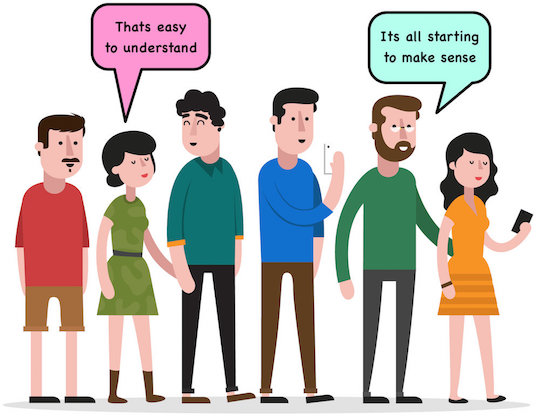
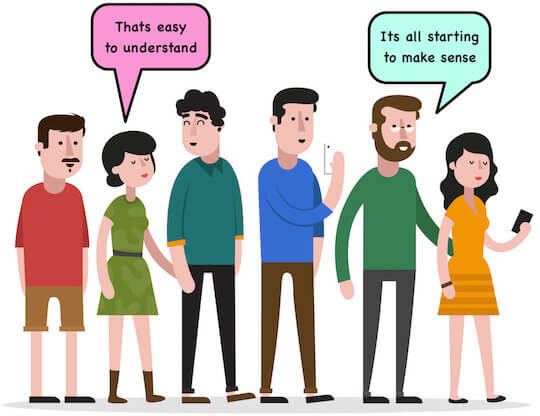
Assets optimized
removing images

Added smaller photos

diff --git a/src/LogoList/UsedBy.js b/src/LogoList/UsedBy.js
@@ -7,7 +7,7 @@ import facebook from '../_app/images/companies/used-by/facebook.png'
 import ibm from '../_app/images/companies/used-by/ibm.png'
 import instagram from '../_app/images/companies/used-by/instagram.png'
 import microsoft from '../_app/images/companies/used-by/microsoft.png'
-import skype from '../_app/images/companies/used-by/skype.jpg'
+import skype from '../_app/images/companies/used-by/skype.png'
 import tesla from '../_app/images/companies/used-by/tesla.png'
 import walmart from '../_app/images/companies/used-by/walmart.png'
 
